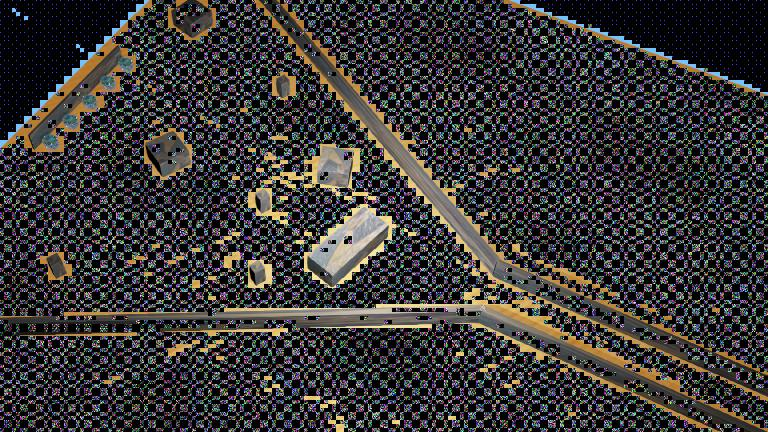
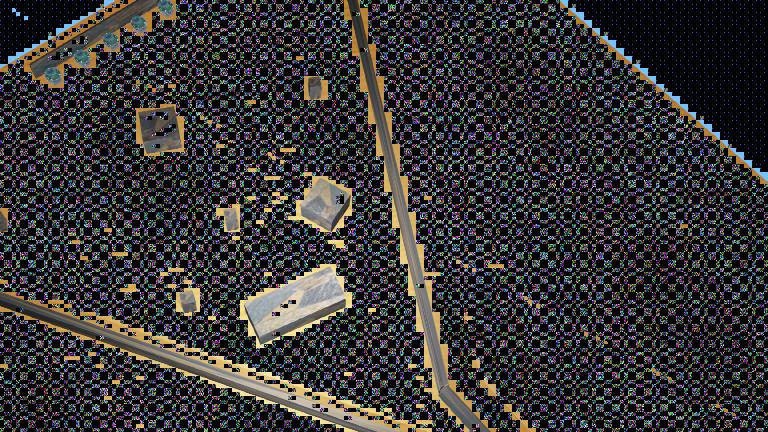
antoine: first implementation leader gets to (0.4,1.6)

diff --git a/controllers/flocking_formation_controller/flocking_formation_controller.c b/controllers/flocking_formation_controller/flocking_formation_controller.c
@@ -1,9 +1,12 @@
-//******************************************************************************
-//  Name:   flocking_formation_controller.c
-//  Author: -
-//  Date:   -
-//  Rev:    -
-//******************************************************************************
+/*****************************************************************************/
+/* File:         flocking_formation_controller.c                                                  */
+/* Version:      1.0                                                         */
+/* Date:         8-Nov-24                                                    */
+/* Description:  Reynolds flocking control 				*/
+/*                                                                           */
+/* Author:       8-Nov-24 by Antoine Hinary			           */
+/* Last revision: 		*/
+/*****************************************************************************/
 
 #include <stdio.h>
 #include <math.h>
@@ -15,9 +18,8 @@
 #include <webots/receiver.h>
 
 #define NB_SENSORS	  8	  // Number of distance sensors
-#define MIN_SENS          350     // Minimum sensibility value
-#define MAX_SENS          4096    // Maximum sensibility value
-#define OBSTACLE_THRESHOLD 800  // Adjust based on sensor range;
+#define MIN_SENS          70     // Minimum sensibility value
+#define MAX_SENS          400    // Maximum sensibility value
 #define MAX_SPEED         800     // Maximum speed
 #define MAX_SPEED_WEB      6.28    // Maximum speed webots
 #define FLOCK_SIZE	  5	  // Size of flock
@@ -27,14 +29,14 @@
 #define WHEEL_RADIUS		0.0205	// Wheel radius (meters)
 #define DELTA_T			0.064	// Timestep (seconds)
 #define RULE1_THRESHOLD     0.20   // Threshold to activate aggregation rule. default 0.20
-#define RULE1_WEIGHT        (0.5/10)	   // Weight of aggregation rule. default 0.6/10
-#define RULE2_THRESHOLD     0.18   // Threshold to activate dispersion rule. default 0.15
+#define RULE1_WEIGHT        (0.7/10)	   // Weight of aggregation rule. default 0.6/10
+#define RULE2_THRESHOLD     0.15   // Threshold to activate dispersion rule. default 0.15
 #define RULE2_WEIGHT        (0.02/10)	   // Weight of dispersion rule. default 0.02/10
 #define RULE3_WEIGHT        (1.0/10)   // Weight of alignment rule. default 1.0/10
-#define MIGRATION_WEIGHT    (0.1/10)   // Wheight of attraction towards the common goal. default 0.01/10
+#define MIGRATION_WEIGHT    (0.04/10)   // Wheight of attraction towards the common goal. default 0.01/10
 #define MIGRATORY_URGE 1 // Tells the robots if they should just go forward or move towards a specific migratory direction
 #define NEIGHBOURHOOD 1 // Tells the robot considering neighbors or all robots during flocking
-#define NEIGH_THRESHOLD 0.4 // Threshold to consider neighbourhood
+#define NEIGH_THRESHOLD 0.6 // Threshold to consider neighbourhood
 #define INTER_VEHICLE_COM 1 // Set 1 if there is intervehicle communication
 #define VERBOSE 0
 #define ABS(x) ((x>=0)?(x):-(x))
@@ -45,9 +47,8 @@ WbDeviceTag ds[NB_SENSORS];	// Handle for the infrared distance sensors
 WbDeviceTag receiver;		// Handle for the receiver node
 WbDeviceTag emitter;		// Handle for the emitter node
 
-int e_puck_matrix[16] = {60,40,30,10,8,-30,-40,-60,-60,-40,-30,8,10,30,40,60}; // Test Map
-// int e_puck_matrix[16] = {17,29,34,10,8,-38,-56,-76,-72,-58,-36,8,10,36,28,18}; // Maze
-// int e_puck_matrix[16] = {17,29,12,10,8,-38,-56,-76,-72,-58,-36,8,10,12,28,18}; // Crossing
+int e_puck_matrix[16] = {40,20,10,0,0,-10,-20,-40,-40,-20,-10,0,0,10,20,40}; // Maze
+//int e_puck_matrix[16] = {17,29,12,10,8,-38,-56,-76,-72,-58,-36,8,10,12,28,18}; // Crossing
 int robot_id_u, robot_id;	// Unique and normalized (between 0 and FLOCK_SIZE-1), robot ID
 float loc[FLOCK_SIZE][3];	// X, Y, Theta of all robots
 float prev_loc[FLOCK_SIZE][3];	// Previous X, Y, Theta values
@@ -171,11 +172,11 @@ void compute_wheel_speeds(int *msl, int *msr)
 	*msl = (u - AXLE_LENGTH*w/2.0) * (1000.0 / WHEEL_RADIUS);
 	*msr = (u + AXLE_LENGTH*w/2.0) * (1000.0 / WHEEL_RADIUS);
 
-  printf("Robot[%d] has values : right speed : %d , left speed : %d \n", robot_id, *msr, *msl);
-  printf("Robot[%d] has values : X : %f , Y : %f , bearing : %f and U : %f \n", robot_id, x, y, bearing, u);
-
 	limit(msl,MAX_SPEED);
 	limit(msr,MAX_SPEED);
+
+	// printf("bearing: %f, range: %f\n",bearing * (180.0 / M_PI), range);
+
 }
 
 /*
@@ -294,6 +295,7 @@ void reynolds_rules() {
 		/* Implement migratory urge */
 		speed[robot_id][0] += MIGRATION_WEIGHT*(migr[0]-loc[robot_id][0]);
 		speed[robot_id][1] += MIGRATION_WEIGHT*(migr[1]-loc[robot_id][1]); 
+		printf("Robot id %d has speed right : %f and speed left %f \n", robot_id, MIGRATION_WEIGHT*(migr[0]-loc[robot_id][0]), MIGRATION_WEIGHT*(migr[1]-loc[robot_id][1]));
 	}
 }
 
@@ -326,135 +328,144 @@ void initial_pos(void){
 			initialized[rob_nb] = 1; 		// initialized = true
 		}		
 		wb_receiver_next_packet(receiver);
-	}	
-}
-
-float limit_custom(float number, float limit)
-{
-  if(number > limit)
-  {
-    return limit;
-  }
-  if(number < -limit)
-  {
-    return -limit;
-  }
-  return number;
+	}
+	
+	
 }
 
 /*
  * Main function
  */
-int main() { 	
-	int msl, msr;	
+int main(){ 	
+
+	int msl, msr;			// Wheel speeds
 	float msl_w, msr_w;
-	int bmsl, bmsr, sum_sensors;	
-	int i;	
-	int rob_nb;	
-	float rob_x, rob_y, rob_theta;
-	int distances[NB_SENSORS];	
-	char *inbuffer;	
-	int max_sens;	
+	int bmsl, bmsr, sum_sensors;	// Braitenberg parameters
+	int i;				// Loop counter
+	int rob_nb;			// Robot number
+	float rob_x, rob_y, rob_theta;  // Robot position and orientation
+	int distances[NB_SENSORS];	// Array for the distance sensor readings
+	char *inbuffer;			// Buffer for the receiver node
+	int max_sens;			// Store highest sensor value
 	char outbuffer[255];
 
-	reset();			
-	initial_pos();
+ 	reset();			// Resetting the robot
+	initial_pos();			// Initializing the robot's position
 
 	msl = 0; msr = 0;  
 	max_sens = 0;
-	strncpy(outbuffer, " ", 1);
-
-	for (;;) {
+	strncpy(outbuffer, " ", 1); // dummy assignment
+	
+	
+	// Forever
+	for(;;){
 		bmsl = 0; bmsr = 0;
 		sum_sensors = 0;
 		max_sens = 0;
+		/* Braitenberg */
+		for(i=0;i<NB_SENSORS;i++) {
+			distances[i]=wb_distance_sensor_get_value(ds[i]); //Read sensor values
+			sum_sensors += distances[i]; // Add up sensor values
+			max_sens = max_sens>distances[i]?max_sens:distances[i]; // Check if new highest sensor value
 
-		/* Enhanced Braitenberg */
-		for (i = 0; i < NB_SENSORS; i++) {
-			distances[i] = wb_distance_sensor_get_value(ds[i]);
-			sum_sensors += distances[i];
-			max_sens = max_sens > distances[i] ? max_sens : distances[i];
-
+			// Weighted sum of distance sensor values for Braitenberg vehicle
 			bmsr += e_puck_matrix[i] * distances[i];
-			bmsl += e_puck_matrix[i + NB_SENSORS] * distances[i];
+			bmsl += e_puck_matrix[i+NB_SENSORS] * distances[i];
 		}
 
-		// Increase responsiveness to nearby obstacles
-		bmsl = (bmsl / MIN_SENS) + 100;
-		bmsr = (bmsr / MIN_SENS) + 100;
+		// Adapt Braitenberg values (empirical tests)
+		bmsl/=MIN_SENS; bmsr/=MIN_SENS;
+		bmsl+=66; bmsr+=72;
 
-		// Enhanced avoidance: sharp turn if an obstacle is close
-		if (max_sens > OBSTACLE_THRESHOLD) {
-			if (distances[0] > distances[NB_SENSORS - 1]) {
-				bmsl += 200;  // Turn left if obstacle is closer on right
-			} else {
-				bmsr += 200;  // Turn right if obstacle is closer on left
-			}
-		}
-
-		// Receive and parse incoming messages
+		/* Get information */
 		int count = 0;
-		while (wb_receiver_get_queue_length(receiver) > 0 && count < FLOCK_SIZE) {
+		while (wb_receiver_get_queue_length(receiver) > 0 && count < FLOCK_SIZE) 
+		{
 			inbuffer = (char*) wb_receiver_get_data(receiver);
-			sscanf(inbuffer, "%d#%f#%f#%f", &rob_nb, &rob_x, &rob_y, &rob_theta);
-
-			if ((int) rob_nb / FLOCK_SIZE == (int) robot_id / FLOCK_SIZE) {
+			sscanf(inbuffer,"%d#%f#%f#%f",&rob_nb,&rob_x,&rob_y,&rob_theta);
+			
+			if ((int) rob_nb/FLOCK_SIZE == (int) robot_id/FLOCK_SIZE) {
 				rob_nb %= FLOCK_SIZE;
 				if (initialized[rob_nb] == 0) {
-					loc[rob_nb][0] = rob_x;
-					loc[rob_nb][1] = rob_y;
-					loc[rob_nb][2] = rob_theta;
-					prev_loc[rob_nb][0] = loc[rob_nb][0];
-					prev_loc[rob_nb][1] = loc[rob_nb][1];
-					initialized[rob_nb] = 1;
-				} else {
-					prev_loc[rob_nb][0] = loc[rob_nb][0];
-					prev_loc[rob_nb][1] = loc[rob_nb][1];
-					loc[rob_nb][0] = rob_x;
-					loc[rob_nb][1] = rob_y;
-					loc[rob_nb][2] = rob_theta;
-				}
-				speed[rob_nb][0] = (1 / DELTA_T) * (loc[rob_nb][0] - prev_loc[rob_nb][0]);
-				speed[rob_nb][1] = (1 / DELTA_T) * (loc[rob_nb][1] - prev_loc[rob_nb][1]);
-				count++;
+				// Get initial positions
+				loc[rob_nb][0] = rob_x; //x-position
+				loc[rob_nb][1] = rob_y; //y-position
+				loc[rob_nb][2] = rob_theta; //theta
+				prev_loc[rob_nb][0] = loc[rob_nb][0];
+				prev_loc[rob_nb][1] = loc[rob_nb][1];
+				initialized[rob_nb] = 1;
+			} else {
+				// Get position update
+				// printf("\n got update robot[%d] = (%f,%f) \n",rob_nb,loc[rob_nb][0],loc[rob_nb][1]);
+				prev_loc[rob_nb][0] = loc[rob_nb][0];
+				prev_loc[rob_nb][1] = loc[rob_nb][1];
+				loc[rob_nb][0] = rob_x; //x-position
+				loc[rob_nb][1] = rob_y; //y-position
+				loc[rob_nb][2] = rob_theta; //theta
 			}
-			wb_receiver_next_packet(receiver);
+			
+			speed[rob_nb][0] = (1/DELTA_T)*(loc[rob_nb][0]-prev_loc[rob_nb][0]);
+			speed[rob_nb][1] = (1/DELTA_T)*(loc[rob_nb][1]-prev_loc[rob_nb][1]);
+			count++;
 		}
 
-		prev_loc[robot_id][0] = loc[robot_id][0];
-		prev_loc[robot_id][1] = loc[robot_id][1];
-		update_self_motion(msl, msr);
-
-		speed[robot_id][0] = (1 / DELTA_T) * (loc[robot_id][0] - prev_loc[robot_id][0]);
-		speed[robot_id][1] = (1 / DELTA_T) * (loc[robot_id][1] - prev_loc[robot_id][1]);
-
-		reynolds_rules();
-
-		compute_wheel_speeds(&msl, &msr);
-
-		if (sum_sensors > NB_SENSORS * MIN_SENS) {
-			msl -= msl * max_sens / (2 * MAX_SENS);
-			msr -= msr * max_sens / (2 * MAX_SENS);
-		}
-
-		msl += bmsl;
-		msr += bmsr;
-
-		msl_w = msl * MAX_SPEED_WEB / 1000;
-		msr_w = msr * MAX_SPEED_WEB / 1000;
-
-    limit_custom(msl_w,MAX_SPEED_WEB);
-	  limit_custom(msr_w,MAX_SPEED_WEB);
-
-		wb_motor_set_velocity(left_motor, msl_w);
-		wb_motor_set_velocity(right_motor, msr_w);
-
-		if (INTER_VEHICLE_COM) {
-			sprintf(outbuffer, "%1d#%f#%f#%f", robot_id, loc[robot_id][0], loc[robot_id][1], loc[robot_id][2]);
-			wb_emitter_send(emitter, outbuffer, strlen(outbuffer));
-		}
-
-		wb_robot_step(TIME_STEP);
+		wb_receiver_next_packet(receiver);
 	}
+
+	// Compute self position & speed
+	prev_loc[robot_id][0] = loc[robot_id][0];
+	prev_loc[robot_id][1] = loc[robot_id][1];
+
+
+	update_self_motion(msl,msr);
+
+	speed[robot_id][0] = (1/DELTA_T)*(loc[robot_id][0]-prev_loc[robot_id][0]);
+	speed[robot_id][1] = (1/DELTA_T)*(loc[robot_id][1]-prev_loc[robot_id][1]);
+
+	// Reynold's rules with all previous info (updates the speed[][] table)
+	reynolds_rules();
+	
+	// Compute wheels speed from Reynold's speed
+	compute_wheel_speeds(&msl, &msr);
+
+		// Adapt speed instinct to distance sensor values
+	if (sum_sensors > NB_SENSORS*MIN_SENS) {
+		msl -= msl*max_sens/(2*MAX_SENS);
+		msr -= msr*max_sens/(2*MAX_SENS);
+	}
+
+	// Add Braitenberg
+	msl += bmsl;
+	msr += bmsr;
+
+	// Set speed
+	msl_w = msl*MAX_SPEED_WEB/1000;
+	msr_w = msr*MAX_SPEED_WEB/1000;
+
+	// if(robot_id==2)
+	// {
+	// 	for(int i=0; i<NB_SENSORS; i++)
+	// 	{
+	// 		printf("Sensor %d has value : %d \n", i, distances[i]);
+	// 	}
+	// 	printf("Robot id : %d, Speed right: %d, Speed left: %d\n",robot_id, msr, msl);
+	// 	printf("Robot id : %d, Obstacle Speed right: %d, ObstacleSpeed left: %d\n",robot_id, bmsr, bmsl);
+	// 	printf("Robot id : %d, Sent Speed right: %f, Sent left: %f\n",robot_id, msr_w, msl_w);
+	// }
+
+	wb_motor_set_velocity(left_motor, msl_w);
+	wb_motor_set_velocity(right_motor, msr_w);
+
+	// Send current position to neighbors, uncomment for I15, don't forget to add the declaration of "outbuffer" at the begining of this function.
+	/*Implement your code here*/
+	
+	if (INTER_VEHICLE_COM) {
+        	     sprintf(outbuffer,"%1d#%f#%f#%f",robot_id,loc[robot_id][0],loc[robot_id][1], loc[robot_id][2]);
+                wb_emitter_send(emitter,outbuffer,strlen(outbuffer));
+           }
+
+	// Continue one step
+	wb_robot_step(TIME_STEP);
 }
+}  
 
